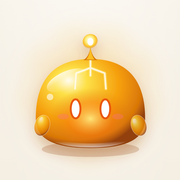
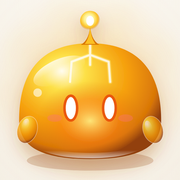
桌面圖示：史萊姆放大；更新快取版本
Claude-Session: https://claude.ai/code/session_01WzktQ4JekNzeXJucnxhCZd

diff --git a/sw.js b/sw.js
@@ -1,4 +1,4 @@
-const CACHE = 'slime-ledger-v10';
+const CACHE = 'slime-ledger-v11';
 const FILES = ['./', './index.html', './manifest.webmanifest', './icon-192.png', './icon-512.png', './apple-touch-icon.png'];
 self.addEventListener('install', e => { e.waitUntil(caches.open(CACHE).then(c => c.addAll(FILES))); self.skipWaiting(); });
 self.addEventListener('activate', e => { e.waitUntil(caches.keys().then(ks => Promise.all(ks.filter(k => k !== CACHE).map(k => caches.delete(k))))); self.clients.claim(); });
